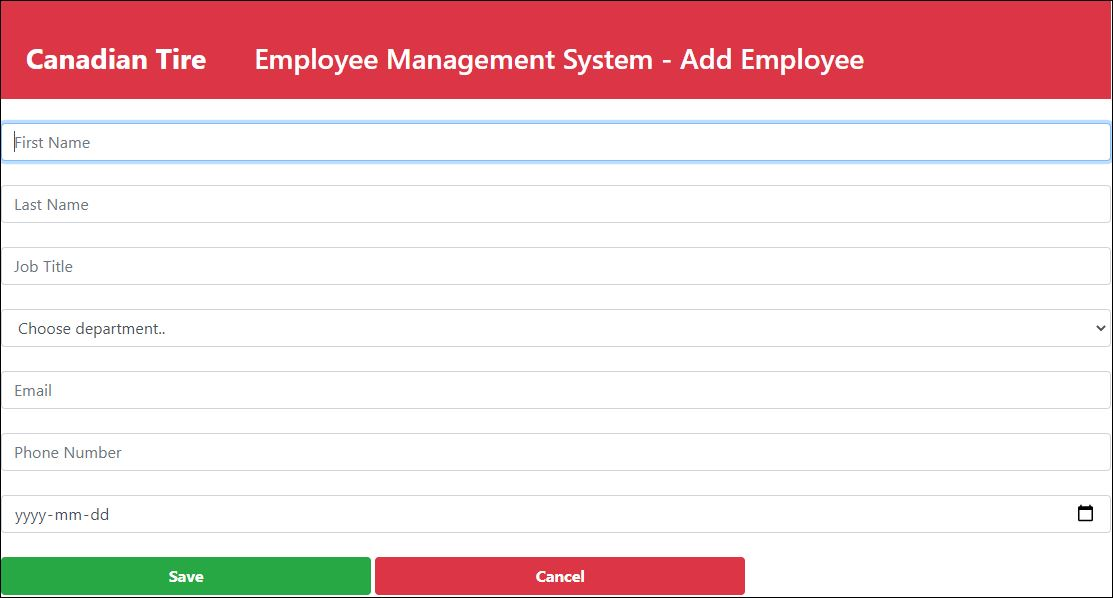
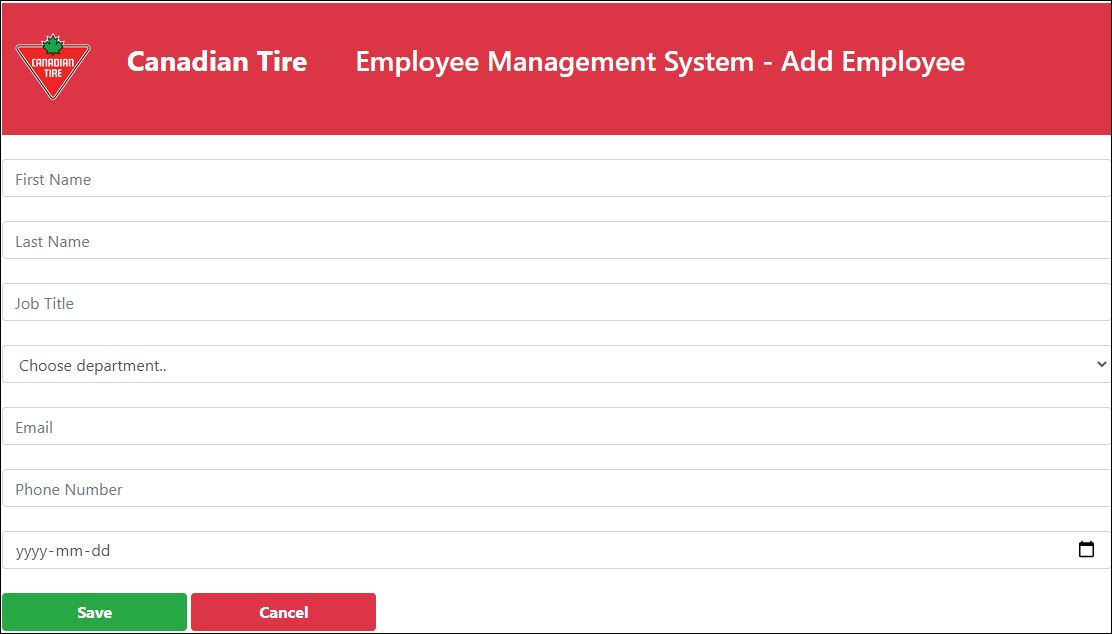
Updated Images

diff --git a/src/main/resources/templates/add_employee.html b/src/main/resources/templates/add_employee.html
@@ -48,8 +48,8 @@
         <input type="text" th:field="*{phone}" class="form-control mb-4 col-12" placeholder="Phone Number" required="required">
         <input type="date" th:field="*{dateOfBirth}" class="form-control mb-4 col-12" placeholder="Date of Birth" required="required">
 
-        <button type="submit" class="btn btn-success font-weight-bold col-4">Save</button>
-        <a th:href="@{/}" class="btn btn-danger font-weight-bold text-white col-4">Cancel</a>
+        <button type="submit" class="btn btn-success font-weight-bold col-2">Save</button>
+        <a th:href="@{/}" class="btn btn-danger font-weight-bold text-white col-2">Cancel</a>
 
     </form>
 

diff --git a/src/main/resources/templates/update_employee.html b/src/main/resources/templates/update_employee.html
@@ -48,8 +48,8 @@
         <input type="text" th:field="*{phone}" class="form-control mb-4 col-12" placeholder="Phone Number" required="required">
         <input type="date" th:field="*{dateOfBirth}" class="form-control mb-4 col-12" placeholder="Date of Birth" required="required">
 
-        <button type="submit" class="btn btn-success font-weight-bold col-4">Save</button>
-        <a th:href="@{/}" class="btn btn-danger font-weight-bold text-white col-4">Cancel</a>
+        <button type="submit" class="btn btn-success font-weight-bold col-2">Save</button>
+        <a th:href="@{/}" class="btn btn-danger font-weight-bold text-white col-2">Cancel</a>
 
     </form>
 
